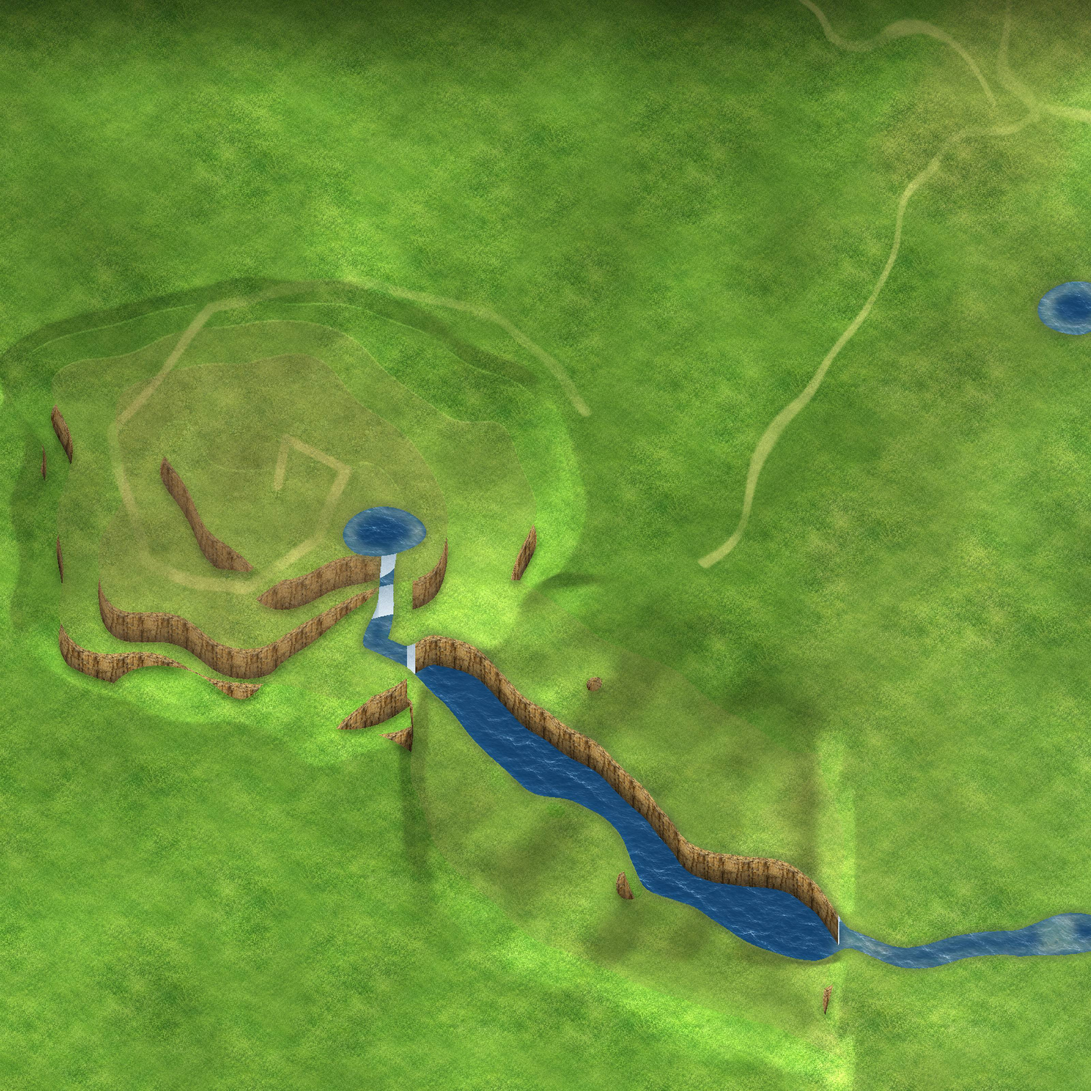
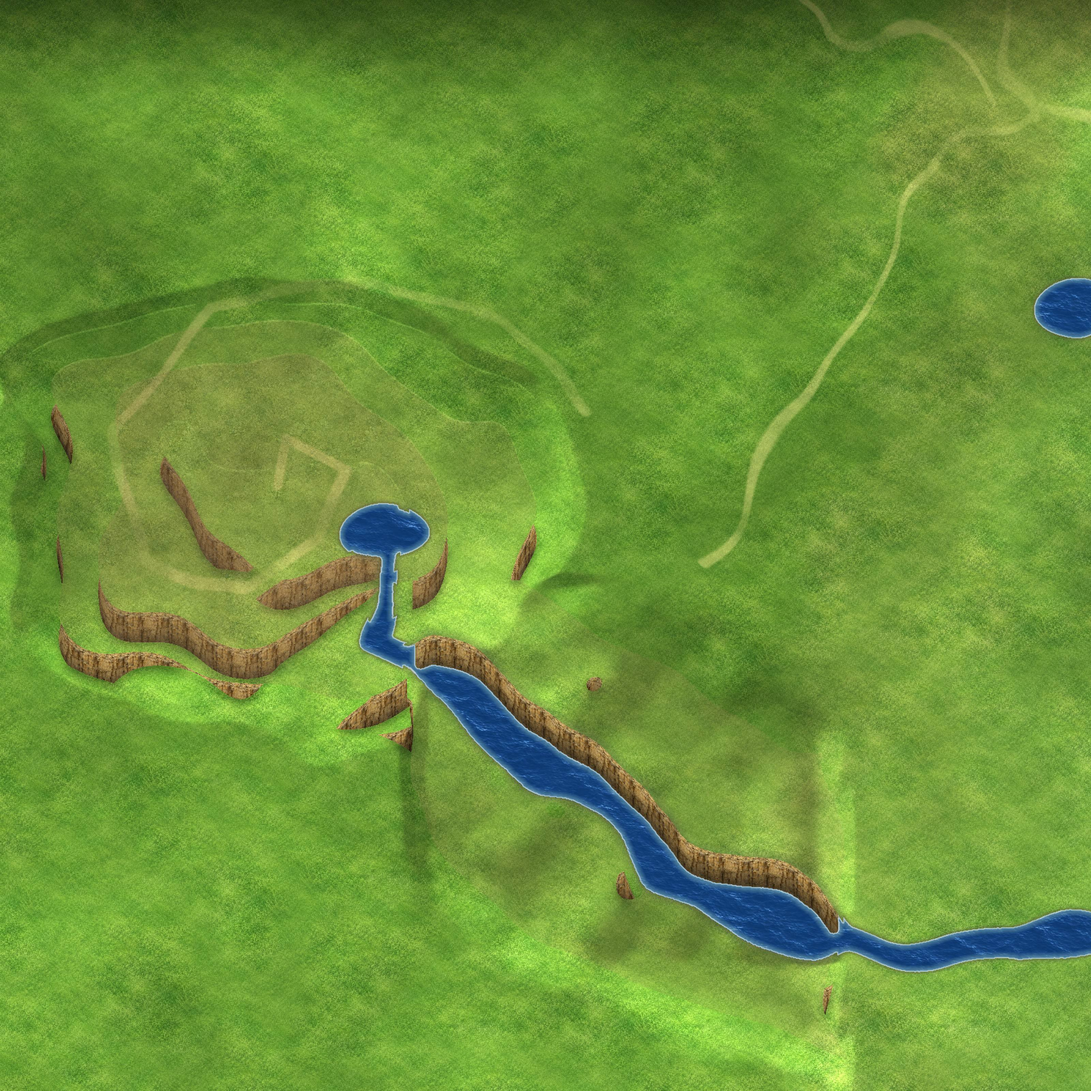
第一关：重画河流（加宽、深蓝中心、浅色岸边与白浪沫），浅滩只保留过河点（含原桥位）；树木按同种成片重新摆放，灌木成团，水边芦苇/香蒲/睡莲/柳树，去掉河中石
Claude-Session: https://claude.ai/code/session_011WrGna6yNwTfpmyp4CxMHs

Changed region(s): [[0.3125, 0.4375, 1.0, 0.9062], [0.9375, 0.25, 1.0, 0.3125]]

diff --git a/src/main.js b/src/main.js
@@ -149,7 +149,7 @@ let flT=0;function loop(now){if(now-flT<(menu?.visible?32:15.5)){requestAnimatio
  c.save();c.font='7px monospace';c.textBaseline='bottom';c.fillStyle='rgba(0,0,0,.45)';c.fillRect(3,VH-13,124,10);c.fillStyle='#fff';c.fillText(region(hero.x,hero.y)+' · '+weather.shichen(now)+'  x '+Math.round(hero.x)+'  y '+Math.round(hero.y),6,VH-5);c.restore();
  const items=[];
  for(const o of objs){const sx=o.x-cx,sy=o.y-cy;if(sx<-60||sx>VW+60||sy<-10||sy>VH+100)continue;
-  const inx=Math.abs(hero.x-o.x)<o.w*.4,iny=hero.y<o.y-2&&hero.y>o.y-o.h*.9;const fade=/^(broad|pine|spire|bushL|nfir|nbare|nspire|nbush|fhouse|fshed|fgran|fbamb1|fwillow|fpeach)/.test(o.k);const ta=(fade&&inx&&iny)?.42:1;
+  const inx=Math.abs(hero.x-o.x)<o.w*.4,iny=hero.y<o.y-2&&hero.y>o.y-o.h*.9;const fade=/^(broad|pine|spire|bushL|nfir|nbare|nspire|nbush|fhouse|fshed|fgran|fbamb1|fwillow|fpeach|willow)/.test(o.k);const ta=(fade&&inx&&iny)?.42:1;
   o.a+=(ta-o.a)*Math.min(1,dt*10);
   const fl=/^(st\d|wlily)/.test(o.k);   // 踏脚石、睡莲贴地画，永远在人物下面
   items.push({y:fl?-1e9:o.y,f:()=>{c.imageSmoothingEnabled=true;c.globalAlpha=o.a;c.drawImage(IM['s_'+o.k],sx-o.w/2,fl?sy-o.h/2:sy-o.h,o.w,o.h);c.globalAlpha=1}})}

diff --git a/tools/rebuild_nature.py b/tools/rebuild_nature.py
@@ -1,0 +1,208 @@
+"""第一关：重画河流（加宽、中间深蓝、靠岸变浅、岸边白色水花），只保留能过河的浅滩（含原桥位），
+并按“同种成片”的规则重新摆放树木、灌木、水边植物和石头。
+输入（原始底稿，不会被改）：art_src/build/stage_old/{g00,g10}.jpg、coll.png、world.json
+输出：assets/map/g*.jpg、coll.png、data/world.json 的 objs/size/coll_r。可重复运行。"""
+import numpy as np, cv2, json, os
+from PIL import Image
+Image.MAX_IMAGE_PIXELS=None
+ROOT=os.path.dirname(os.path.dirname(os.path.abspath(__file__)))
+OLD=ROOT+'/art_src/build/stage_old/'; MAP=ROOT+'/assets/map/'
+J=json.load(open(ROOT+'/data/world.json')); J0=json.load(open(OLD+'world.json'))
+HD=J['HD']; T=J['tiles']['T']; W,H=J['WW'],J['WH']; rng=np.random.default_rng(21)
+blur=lambda a,s:cv2.GaussianBlur(a.astype(np.float32),(0,0),s)
+disk=lambda r:cv2.getStructuringElement(cv2.MORPH_ELLIPSE,(2*r+1,2*r+1))
+dil=lambda m,r:cv2.dilate(m.astype(np.uint8),disk(r)).astype(bool)
+# ---------- 读底稿 ----------
+G=np.zeros((H*HD,W*HD,3),np.uint8)
+for t in J['tiles']['list']:
+    tx,ty=int(t[1]),int(t[2]); im=np.array(Image.open(OLD+t+'.jpg').convert('RGB')); G[ty*T*HD:ty*T*HD+im.shape[0],tx*T*HD:tx*T*HD+im.shape[1]]=im
+C0=np.array(Image.open(OLD+'coll.png').convert('RGB'))[...,0]
+g=cv2.resize(G,(W,H),interpolation=cv2.INTER_AREA).astype(int)
+blue=g[...,2]>g[...,1]+5
+wat0=((C0>=1)&blue)|(C0==2)
+rockc=(C0==1)&~blue                                     # 崖壁、山体
+# ---------- 新水域 ----------
+watc=cv2.morphologyEx(wat0.astype(np.uint8),cv2.MORPH_CLOSE,disk(7)).astype(bool)   # 把桥面那条缝补上
+land_ok=(C0==0)&~dil(rockc,5)
+WID=5
+watw=watc|(dil(watc,WID)&land_ok)
+for k_,x,y in J0['objs']:                              # 原桥位：局部用更大的核把河道接起来
+    if k_.startswith('bridge'):
+        y0_,y1_,x0_,x1_=max(0,y-70),y+50,max(0,x-60),x+60
+        watw[y0_:y1_,x0_:x1_]|=cv2.morphologyEx(watw[y0_:y1_,x0_:x1_].astype(np.uint8),cv2.MORPH_CLOSE,disk(14)).astype(bool)
+watw[:40]=False
+n,lab,st,_=cv2.connectedComponentsWithStats(watw.astype(np.uint8))
+for i in range(1,n):
+    if st[i][4]<40: watw[lab==i]=False
+land=~watw
+# 过河浅滩：原浅滩里两岸都接陆地的 + 原来的桥位
+ford=np.zeros_like(watw)
+n,lab,st,cen=cv2.connectedComponentsWithStats((C0==2).astype(np.uint8))
+fords=[]
+for i in range(1,n):
+    m=lab==i; ring=dil(m,WID+4)&land&~dil(rockc,2)
+    k,_=cv2.connectedComponents(ring.astype(np.uint8))
+    wr_=dil(m,WID+4)&wat0&~dil(m,1)&(C0!=2); k2,_=cv2.connectedComponents(wr_.astype(np.uint8))
+    if k-1>=2 and k2-1>=2 and st[i][4]<2500:   # 两岸都是陆地、上下游都是河 = 真正的过河点
+        ford|=m; fords.append(tuple(cen[i]))
+for k_,x,y in J0['objs']:
+    if k_.startswith('bridge'):
+        m=np.zeros_like(watw); cv2.circle(m.view(np.uint8),(x,y),22,1,-1); ford|=m.astype(bool); fords.append((x,y))
+ford=dil(ford,WID+3)&watw
+print('过河点',len(fords))
+C=C0.copy(); C[watw]=1; C[ford]=2
+C[(C0==2)&~watw]=0
+Image.fromarray(np.dstack([C,np.zeros_like(C),np.zeros_like(C)])).save(MAP+'coll.png',optimize=True)
+# ---------- 画水 ----------
+S=900
+def seamless(t):
+    t=cv2.resize(t,(S,S),interpolation=cv2.INTER_AREA).astype(np.float32); b=int(S*.3)
+    out=np.roll(np.roll(t,S//2,0),S//2,1); e=np.minimum(np.arange(S),S-1-np.arange(S))
+    w=np.clip(np.minimum.outer(e,e)/b,0,1)[...,None]; return out*(1-w)+t*w
+ld=lambda f:np.array(Image.open(ROOT+'/art_src/map/'+f).convert('RGB'))
+TW=seamless(ld('water.png')); TS=seamless(ld('shallow.png'))
+def tile(t,y0,h,w,ox=0): return t[(np.arange(y0,y0+h)[:,None])%S,(np.arange(w)[None,:]+ox)%S]
+din=cv2.distanceTransform(watw.astype(np.uint8),cv2.DIST_L2,5); dout=cv2.distanceTransform(land.astype(np.uint8),cv2.DIST_L2,5)
+sd=np.where(watw,din-0.5,-(dout-0.5))                   # 有符号距离：水里为正
+nz=blur(rng.random((H//6+1,W//6+1)),1.0); nz=cv2.resize((nz-nz.min())/(np.ptp(nz)+1e-6),(W,H))
+fordb=blur(ford,3)
+out=np.zeros_like(G); BH=640; Wd=W*HD
+FU={}
+def up(a,y0,y1):
+    k=id(a)
+    if k not in FU: FU[k]=cv2.resize(a.astype(np.float32),(Wd,H*HD),interpolation=cv2.INTER_LINEAR)
+    return FU[k][y0:y1]
+for y0 in range(0,H*HD,BH):
+    y1=min(H*HD,y0+BH); h=y1-y0; L=lambda a:up(a,y0,y1)[...,None]
+    col=G[y0:y1].astype(np.float32)
+    s=L(sd); k=L(nz)
+    # 岸：湿泥一圈
+    bank=np.clip(1+s/4,0,1)*(s<=0)
+    col=col*(1-0.45*bank)+np.array([92,84,58],np.float32)*0.45*bank
+    # 水：深处深蓝，靠岸变浅
+    deep=tile(TW,y0,h,Wd)*np.array([0.62,0.78,0.98],np.float32)
+    lite=tile(TW,y0,h,Wd,331)*0.55+np.array([150,196,206],np.float32)*0.45
+    dk=np.clip((s-1)/9,0,1)
+    wc=lite*(1-dk)+deep*dk
+    fk=L(fordb); wc=wc*(1-fk)+(tile(TS,y0,h,Wd,77)*0.7+np.array([196,206,188],np.float32)*0.3)*fk
+    foam=np.clip(1-(s-0.2)/1.8,0,1)*(s>-0.5)*(0.55+0.45*k)
+    wc=wc*(1-foam)+np.array([238,246,248],np.float32)*foam
+    a=np.clip(s+0.5,0,1)
+    out[y0:y1]=np.clip(col*(1-a)+wc*a,0,255).astype(np.uint8)
+for t in J['tiles']['list']:
+    tx,ty=int(t[1]),int(t[2]); Image.fromarray(out[ty*T*HD:(ty+1)*T*HD,tx*T*HD:(tx+1)*T*HD]).save(MAP+t+'.jpg',quality=72,optimize=True)
+Image.fromarray(out[::8,::8]).save(ROOT+'/art_src/build/preview_nature.png')
+del out,G
+# ---------- 物件 ----------
+CUT=ROOT+'/art_src/build/lotr_cut/'
+def add_sprite(k,src,th):
+    im=Image.open(CUT+src+'.png'); hh=th*HD; ww=round(im.width*hh/im.height)
+    ar=np.array(im.resize((ww,hh),Image.LANCZOS)); ar[...,3]=np.where(ar[...,3]>120,255,0)
+    Image.fromarray(ar).save(MAP+'sprites/'+k+'.png'); J['size'][k]=[ww/HD,hh/HD]
+add_sprite('willow','willow',64); J['coll_r']['willow']=6
+SZ=J['size']
+VEG=('broad','pine','bush','tuft','flow','dry','wcat','wreed','wlily','bridge','rmid','rsmall','wlog','st','wr','rf','willow')
+objs=[o for o in J0['objs'] if not o[0].startswith(VEG)]
+CS=40; grid={}
+def far(x,y,r):
+    for i in range(int(x//CS)-2,int(x//CS)+3):
+        for j in range(int(y//CS)-2,int(y//CS)+3):
+            for ox,oy,orr in grid.get((i,j),()):
+                if (x-ox)**2+(y-oy)**2<(r+orr)**2: return False
+    return True
+def put(k,x,y,r):
+    objs.append([k,int(x),int(y)]); grid.setdefault((int(x)//CS,int(y)//CS),[]).append((x,y,r))
+SPAWN=J['spawn']
+nowater=~dil(watw,6)&~dil(rockc,10)
+def okpos(x,y,cl=True):
+    xi,yi=int(x),int(y)
+    if not(8<x<W-8 and 8<y<H-4): return False
+    if not nowater[yi,xi]: return False
+    return not cl or (x-SPAWN[0])**2+(y-SPAWN[1])**2>150**2
+# 森林密度：沿用原来树的分布（北边林墙、迷雾森林、几片树林）
+dens=np.zeros((H,W),np.float32)
+for k_,x,y in J0['objs']:
+    if k_.startswith(('broad','pine')) and 0<=y<H: dens[y,x]+=1
+dens=blur(dens,28); dens=np.clip(dens/np.percentile(dens[dens>0.0005],60),0,1.2)
+reg=np.array(J['rmap']).reshape(J['rgrid'][1],J['rgrid'][0]); fr=cv2.resize((reg==1).astype(np.float32),(W,H))
+dens=np.clip(dens+0.25*blur(fr,60),0,1.2)
+def field(cell,seed):
+    r=np.random.default_rng(seed).random((H//cell+2,W//cell+2)); r=blur(r,1.0); r=cv2.resize(r,(W,H),interpolation=cv2.INTER_CUBIC); return (r-r.min())/(np.ptp(r)+1e-6)
+fC,fB,fO=field(110,1),field(70,2),field(110,3); clear=field(70,4)
+north=np.clip(1-np.arange(H)/500,0,1)[:,None]
+TREE={'con':(['pine1','pine1','pine2'],15),'bir':(['broad2','broad4'],17),'oak':(['broad1','broad3'],24)}
+nt=0
+for _ in range(260000):
+    x,y=rng.uniform(0,W),rng.uniform(0,H); xi,yi=int(x),int(y); d=dens[yi,xi]
+    if d<0.18 or rng.random()>min(1,(d-0.18)*0.6) or not okpos(x,y): continue
+    if d<0.9 and clear[yi,xi]<0.28: continue                 # 林中空地
+    sc={'con':fC[yi,xi]+0.45*north[yi,0]+0.2*d,'bir':fB[yi,xi]-0.12,'oak':fO[yi,xi]-0.15*d}
+    sp=max(sc,key=sc.get); ks,r=TREE[sp]; k=ks[rng.integers(len(ks))]
+    if far(x,y,r*(0.8 if d>0.8 else 1.0)): put(k,x,y,r*(0.8 if d>0.8 else 1.0)); nt+=1
+# 草地上的孤树：橡树 1~3 棵一组
+for _ in range(9000):
+    x,y=rng.uniform(0,W),rng.uniform(0,H)
+    if dens[int(y),int(x)]>0.12 or rng.random()>0.05 or not okpos(x,y) or not far(x,y,110): continue
+    for m in range(rng.integers(1,4)):
+        xx,yy=x+rng.normal(0,22)*(m>0),y+rng.normal(0,16)*(m>0)
+        if okpos(xx,yy) and far(xx,yy,18): put(['broad1','broad3'][rng.integers(2)],xx,yy,18); nt+=1
+# 水边柳树
+wl=np.nonzero((dout>7)&(dout<12)&~dil(rockc,10))
+for j in rng.permutation(len(wl[0]))[:3000]:
+    y,x=int(wl[0][j]),int(wl[1][j])
+    if rng.random()<0.3 and okpos(x,y) and far(x,y,95) and not watw[max(0,y-60):y,max(0,x-20):x+20].any(): put('willow',x,y,20)
+print('树',nt)
+# 灌木：一团一团，同一团同一种
+CL=[('heather',['bushM2','bushS2'],.28),('gorse',['bushL1'],.18),('bramble',['bushL2'],.14),('hawthorn',['bushM1'],.14),('fern',['tuft1','tuft4'],.26)]
+nb=0
+for _ in range(40000):
+    x,y=rng.uniform(0,W),rng.uniform(0,H); d=dens[int(y),int(x)]
+    if d>0.75 or rng.random()>0.2 or not okpos(x,y) or not far(x,y,45): continue
+    p=np.array([c[2] for c in CL]); p[4]+=0.3*d; p/=p.sum(); nm,ks,_=CL[rng.choice(len(CL),p=p)]
+    for _ in range(rng.integers(3,8)):
+        xx,yy=x+rng.normal(0,18),y+rng.normal(0,12); k=ks[rng.integers(len(ks))]; r=SZ[k][0]*0.38
+        if okpos(xx,yy) and far(xx,yy,r): put(k,xx,yy,r); nb+=1
+# 林下：蕨类、毛地黄
+for _ in range(30000):
+    x,y=rng.uniform(0,W),rng.uniform(0,H); d=dens[int(y),int(x)]
+    if not(0.35<d<1.0) or rng.random()>0.08 or not okpos(x,y): continue
+    k=['tuft1','tuft4','tuft3'][rng.choice(3,p=[.45,.4,.15])]
+    if far(x,y,8): put(k,x,y,8); nb+=1
+# 野花：草地上小片
+for _ in range(6000):
+    x,y=rng.uniform(0,W),rng.uniform(0,H)
+    if dens[int(y),int(x)]>0.3 or rng.random()>0.1 or not okpos(x,y,False) or not far(x,y,60): continue
+    for _ in range(rng.integers(2,6)):
+        xx,yy=x+rng.normal(0,14),y+rng.normal(0,9)
+        if okpos(xx,yy,False) and far(xx,yy,5): put(['tuft2','bushS1'][rng.integers(2)],xx,yy,5); nb+=1
+print('灌木草花',nb)
+# 水边：芦苇、香蒲成丛（避开过河点）
+bankz=(dout>0.5)&(dout<4)&~dil(ford,14)&~dil(rockc,8); by,bx=np.nonzero(bankz); nr=0; RC=[]
+for j in rng.permutation(len(bx))[:20000]:
+    x,y=int(bx[j]),int(by[j])
+    if y<50 or rng.random()>0.25 or any((x-a)**2+(y-b)**2<55**2 for a,b in RC): continue
+    RC.append((x,y))
+    ks=['wcat1','wcat2','wcat3'] if rng.random()<0.5 else ['wreed1','wreed2','wreed3']
+    for _ in range(rng.integers(2,5)):
+        xx,yy=x+rng.normal(0,9),y+rng.normal(0,5); xi,yi=int(xx),int(yy)
+        if 0<xi<W and 0<yi<H and dout[yi,xi]<6 and not ford[yi,xi] and far(xx,yy,2): put(ks[rng.integers(3)],xx,yy,6); nr+=1
+# 睡莲：只在大片水面靠边处
+n,lab,st,_=cv2.connectedComponentsWithStats(watw.astype(np.uint8)); big=np.isin(lab,[i for i in range(1,n) if st[i][4]>2500])
+ly,lx=np.nonzero(big&(din>4)&(din<9)&~dil(ford,20))
+for j in rng.permutation(len(lx))[:6000]:
+    x,y=int(lx[j]),int(ly[j])
+    if rng.random()<0.15 and far(x,y,70): put(['wlily1','wlily2'][rng.integers(2)],x,y,8)
+print('水边',nr)
+# 石头：过河点放踏脚石；大片水面靠岸处零星河中石；峡谷末端落石
+for x,y in fords: put('st%d'%rng.integers(1,5),x,y,10)
+WR=[]
+ry,rx=np.nonzero(big&(din>5)&(din<9)&~dil(ford,30)); nw=0
+for j in rng.permutation(len(rx))[:4000]:
+    x,y=int(rx[j]),int(ry[j])
+    if False and all((x-a)**2+(y-b)**2>300**2 for a,b in WR):
+        WR.append((x,y))
+        put('wr%d'%rng.integers(1,5),x,y,10); nw+=1
+for k,x,y in [('rf1',1232,1392),('rf3',1246,1360),('rf4',1214,1352)]: put(k,x,y,12)
+J['objs']=objs; J['size']={k:v for k,v in J['size'].items() if k in {o[0] for o in objs} or True}
+json.dump(J,open(ROOT+'/data/world.json','w'),separators=(',',':'))
+print('物件总数',len(objs),'河中石',nw)
